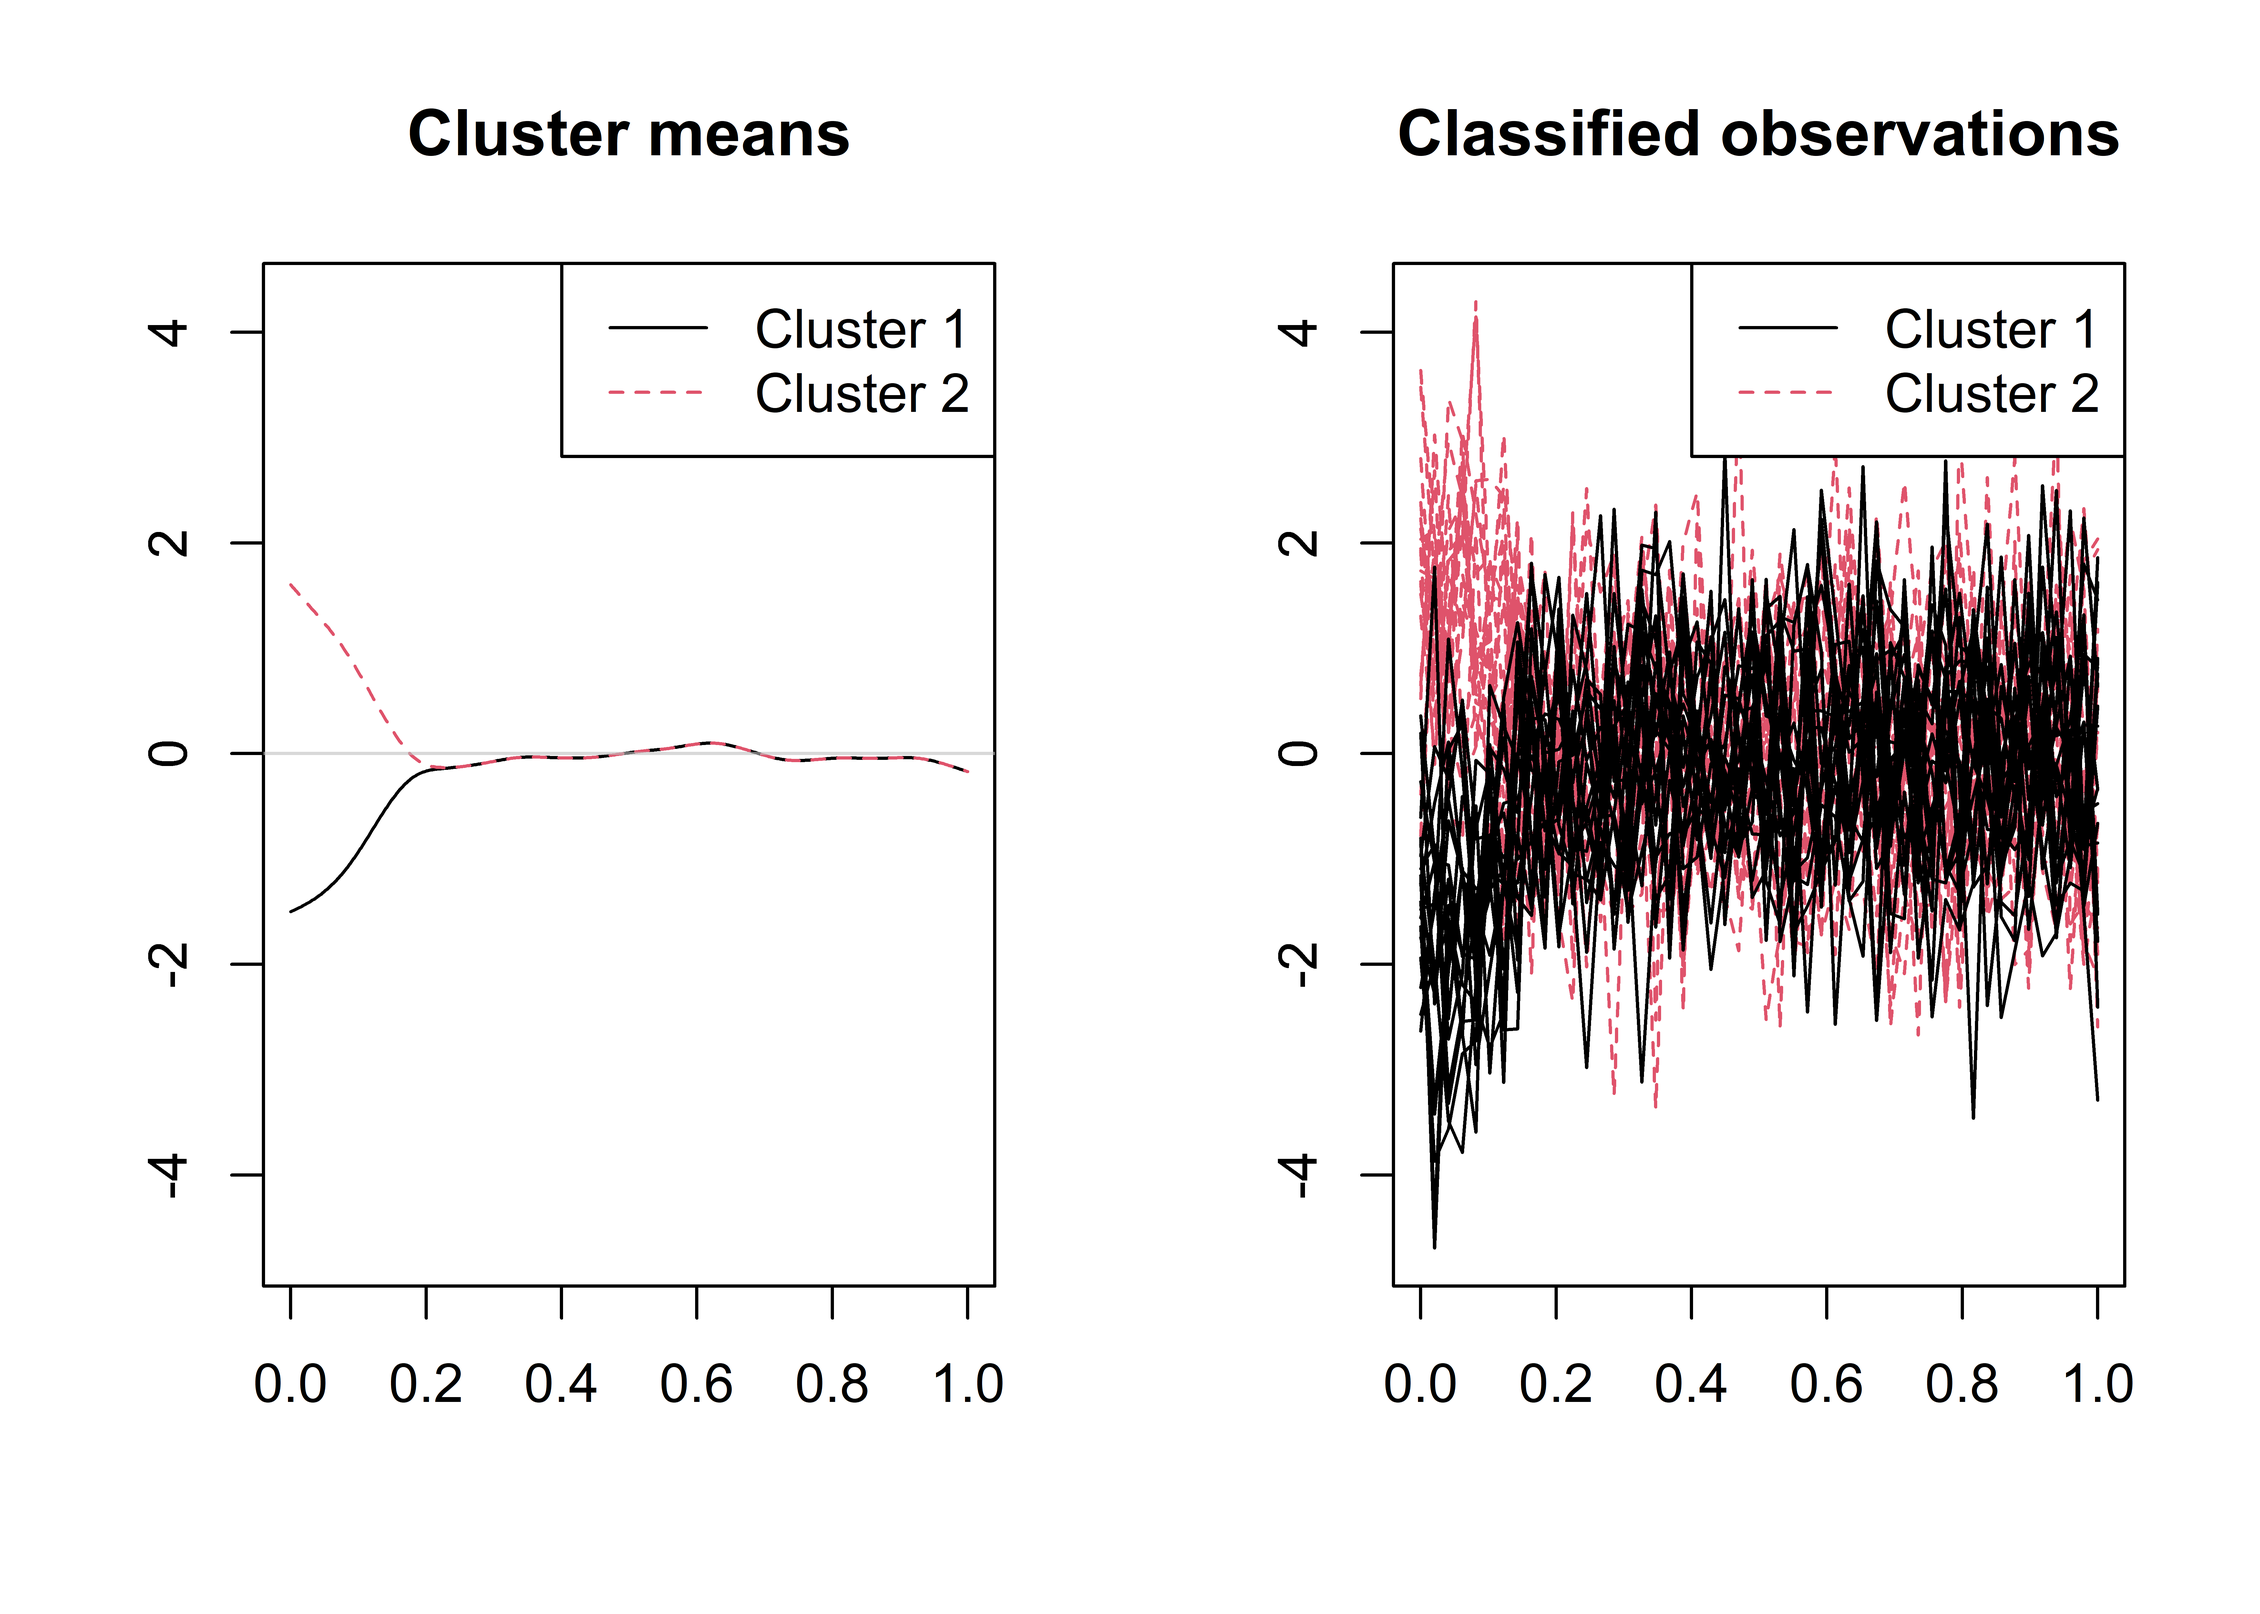
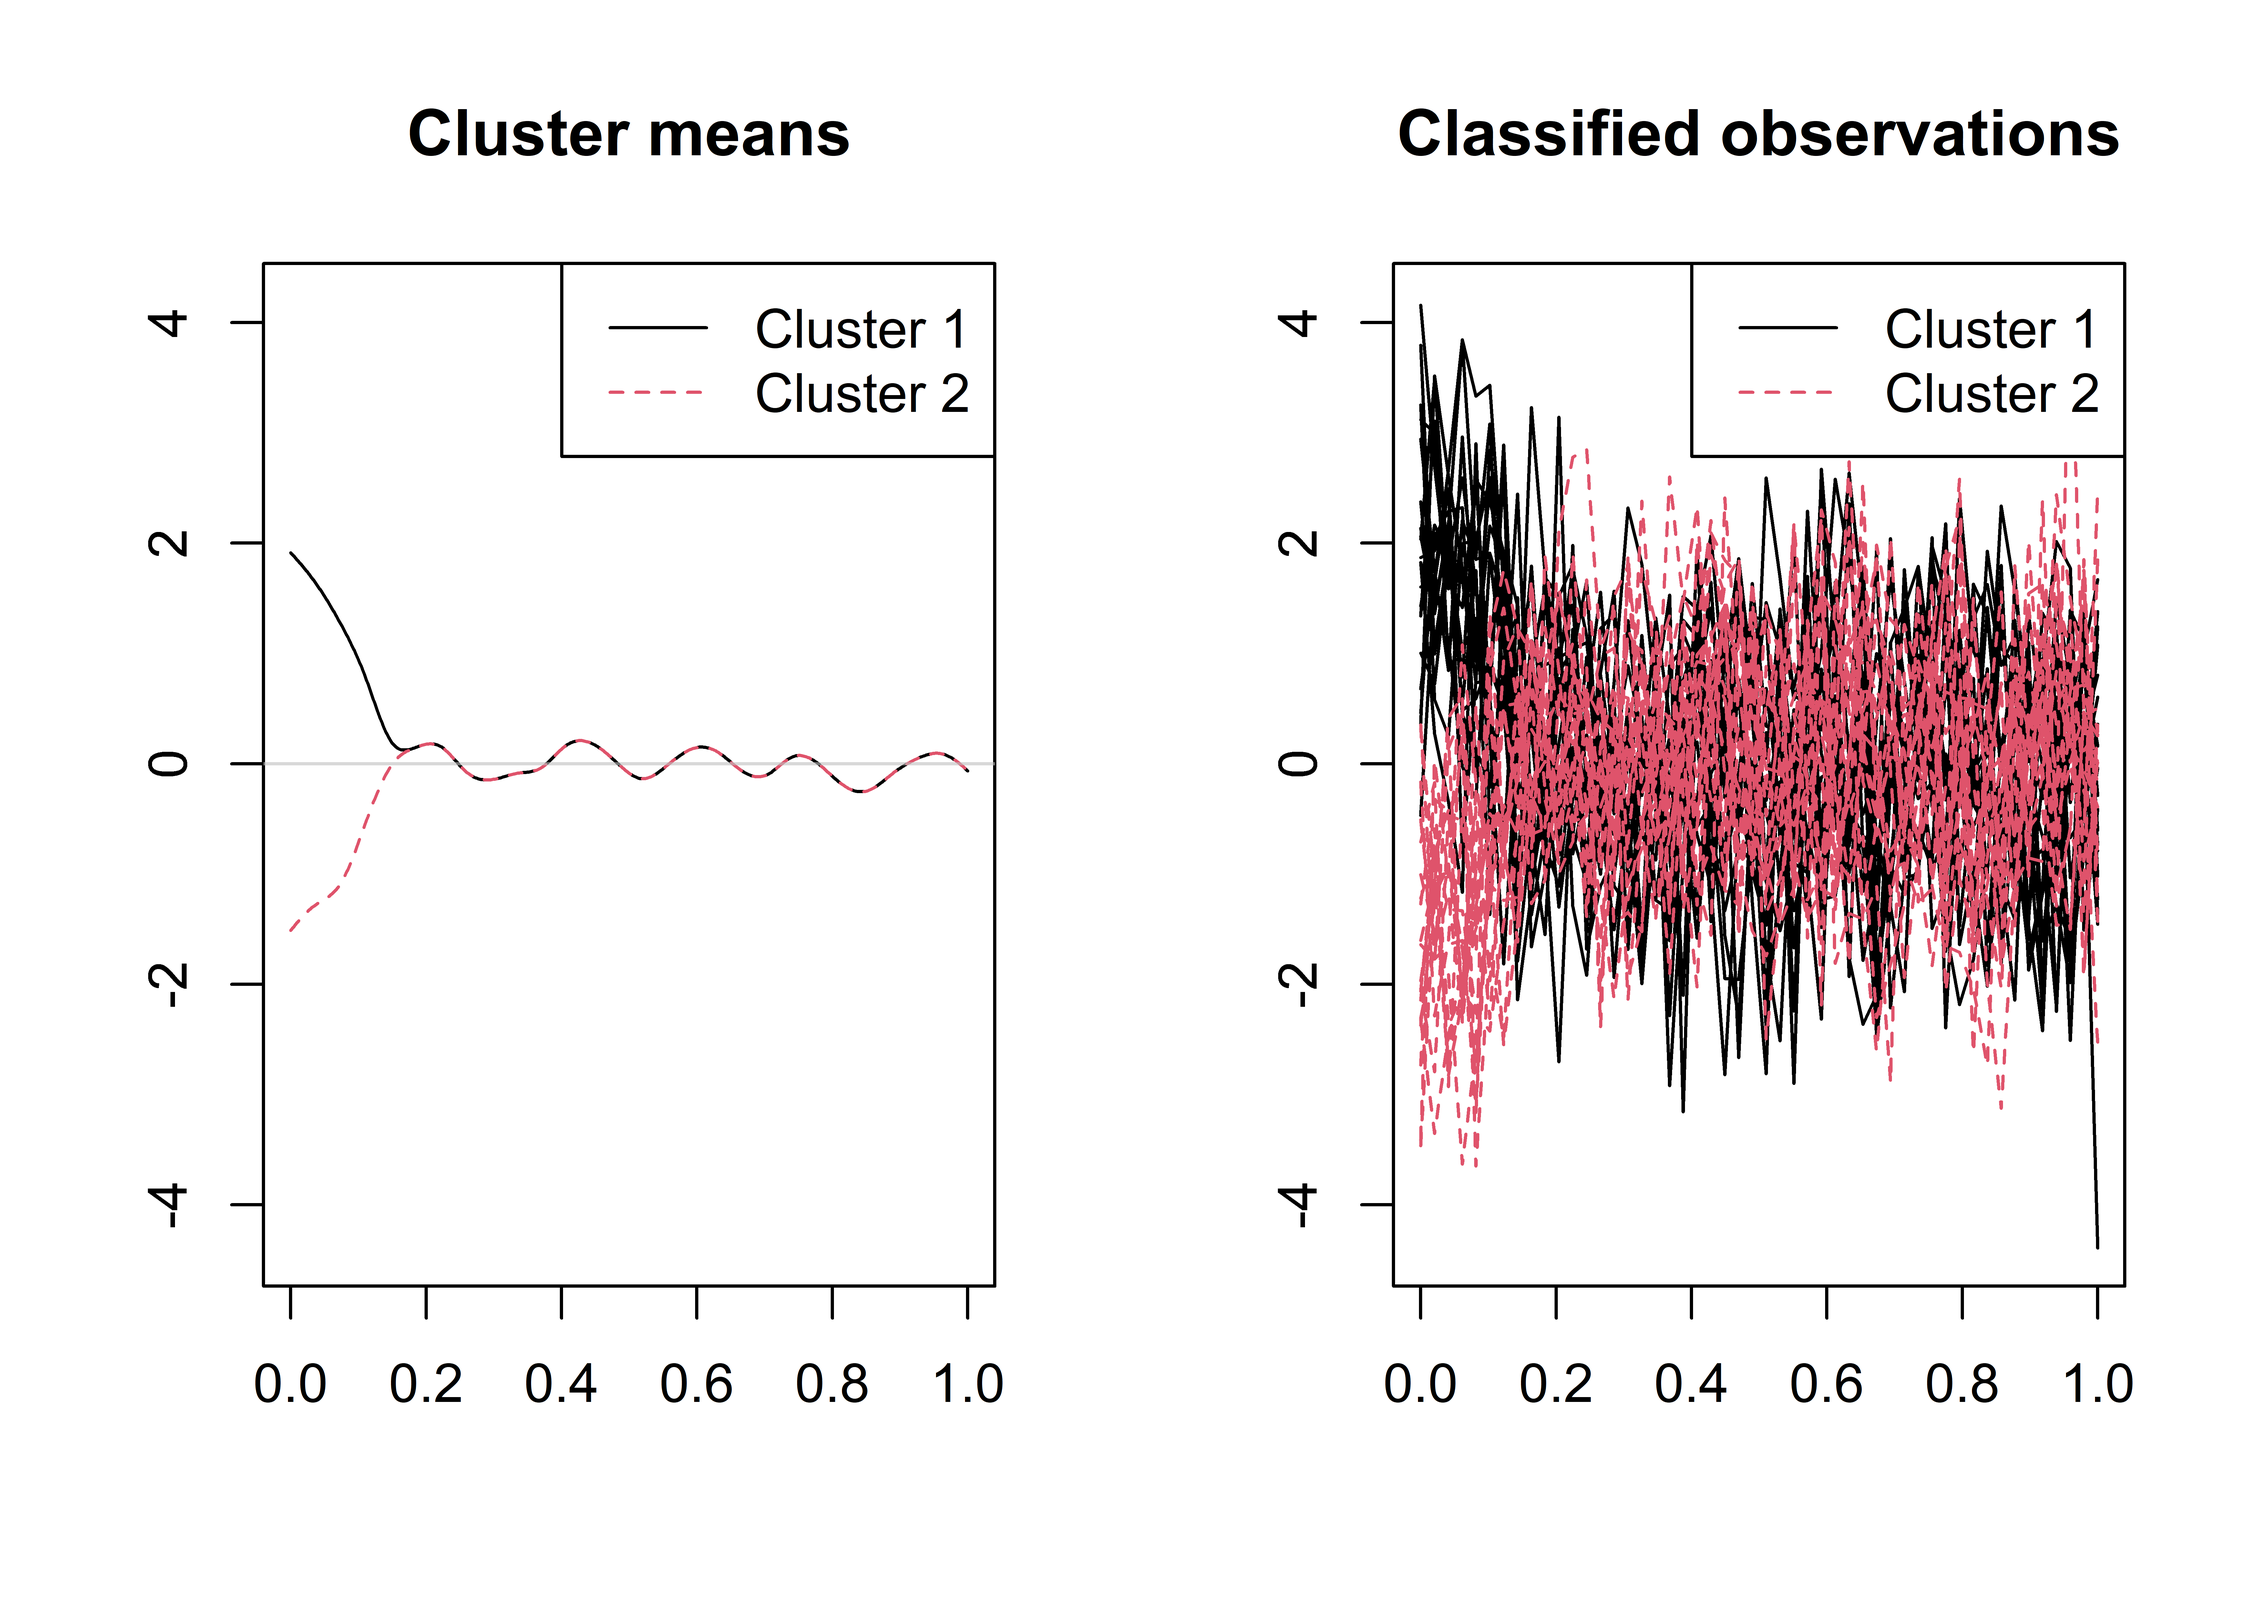
readme2

diff --git a/README.md b/README.md
@@ -6,9 +6,9 @@
 <!-- badges: start -->
 
 [![R build
-status](https://github.com/fabiocentofanti/sasfunclust/workflows/R-CMD-check/badge.svg)](https://github.com/fabiocentofanti/sasfunclust/actions)
+status](https://github.com/unina-sfere/sasfunclust/workflows/R-CMD-check/badge.svg)](https://github.com/unina-sfere/sasfunclust/actions)
 [![Travis build
-status](https://travis-ci.com/fabiocentofanti/sasfunclust.svg?branch=master)](https://travis-ci.com/fabiocentofanti/sasfunclust)
+status](https://travis-ci.com/unina-sfere/sasfunclust.svg?branch=master)](https://travis-ci.com/unina-sfere/sasfunclust)
 <!-- badges: end -->
 
 The package sasfunclust implements the the sparse and smooth functional
@@ -104,8 +104,8 @@ functions and the classified curves are obtained as follows.
 
 ``` r
 print(mod$clus$classes)
-#>  [1] 2 2 2 2 2 2 2 2 2 2 2 2 2 2 2 2 2 2 2 2 1 1 1 1 1 1 1 1 1 1 1 1 1 1 1 1 1 1
-#> [39] 1 1
+#>  [1] 1 1 1 1 1 1 1 1 1 1 1 1 1 1 1 1 1 1 1 1 2 2 2 2 2 2 2 2 2 2 2 2 2 2 2 2 2 2
+#> [39] 2 2
 plot(mod)
 ```
 
